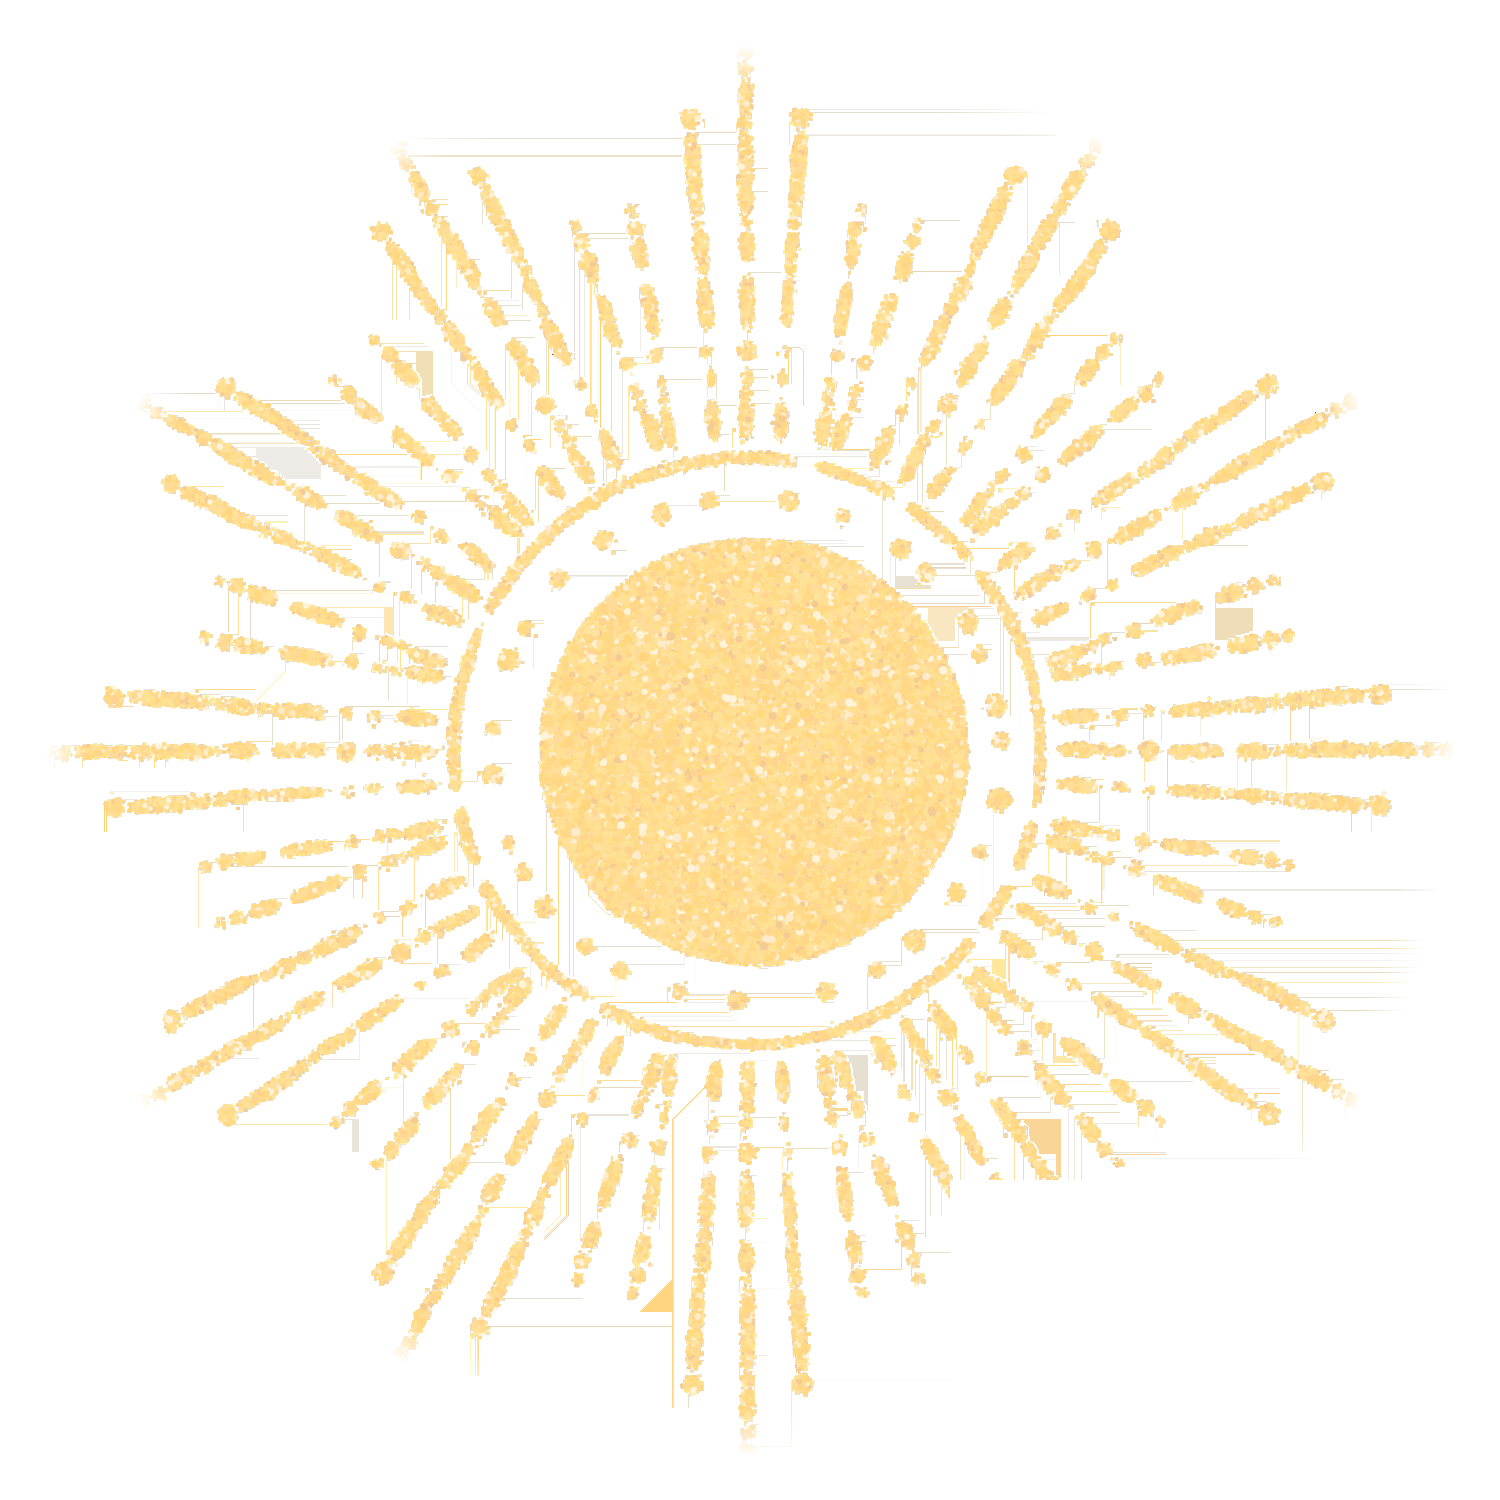
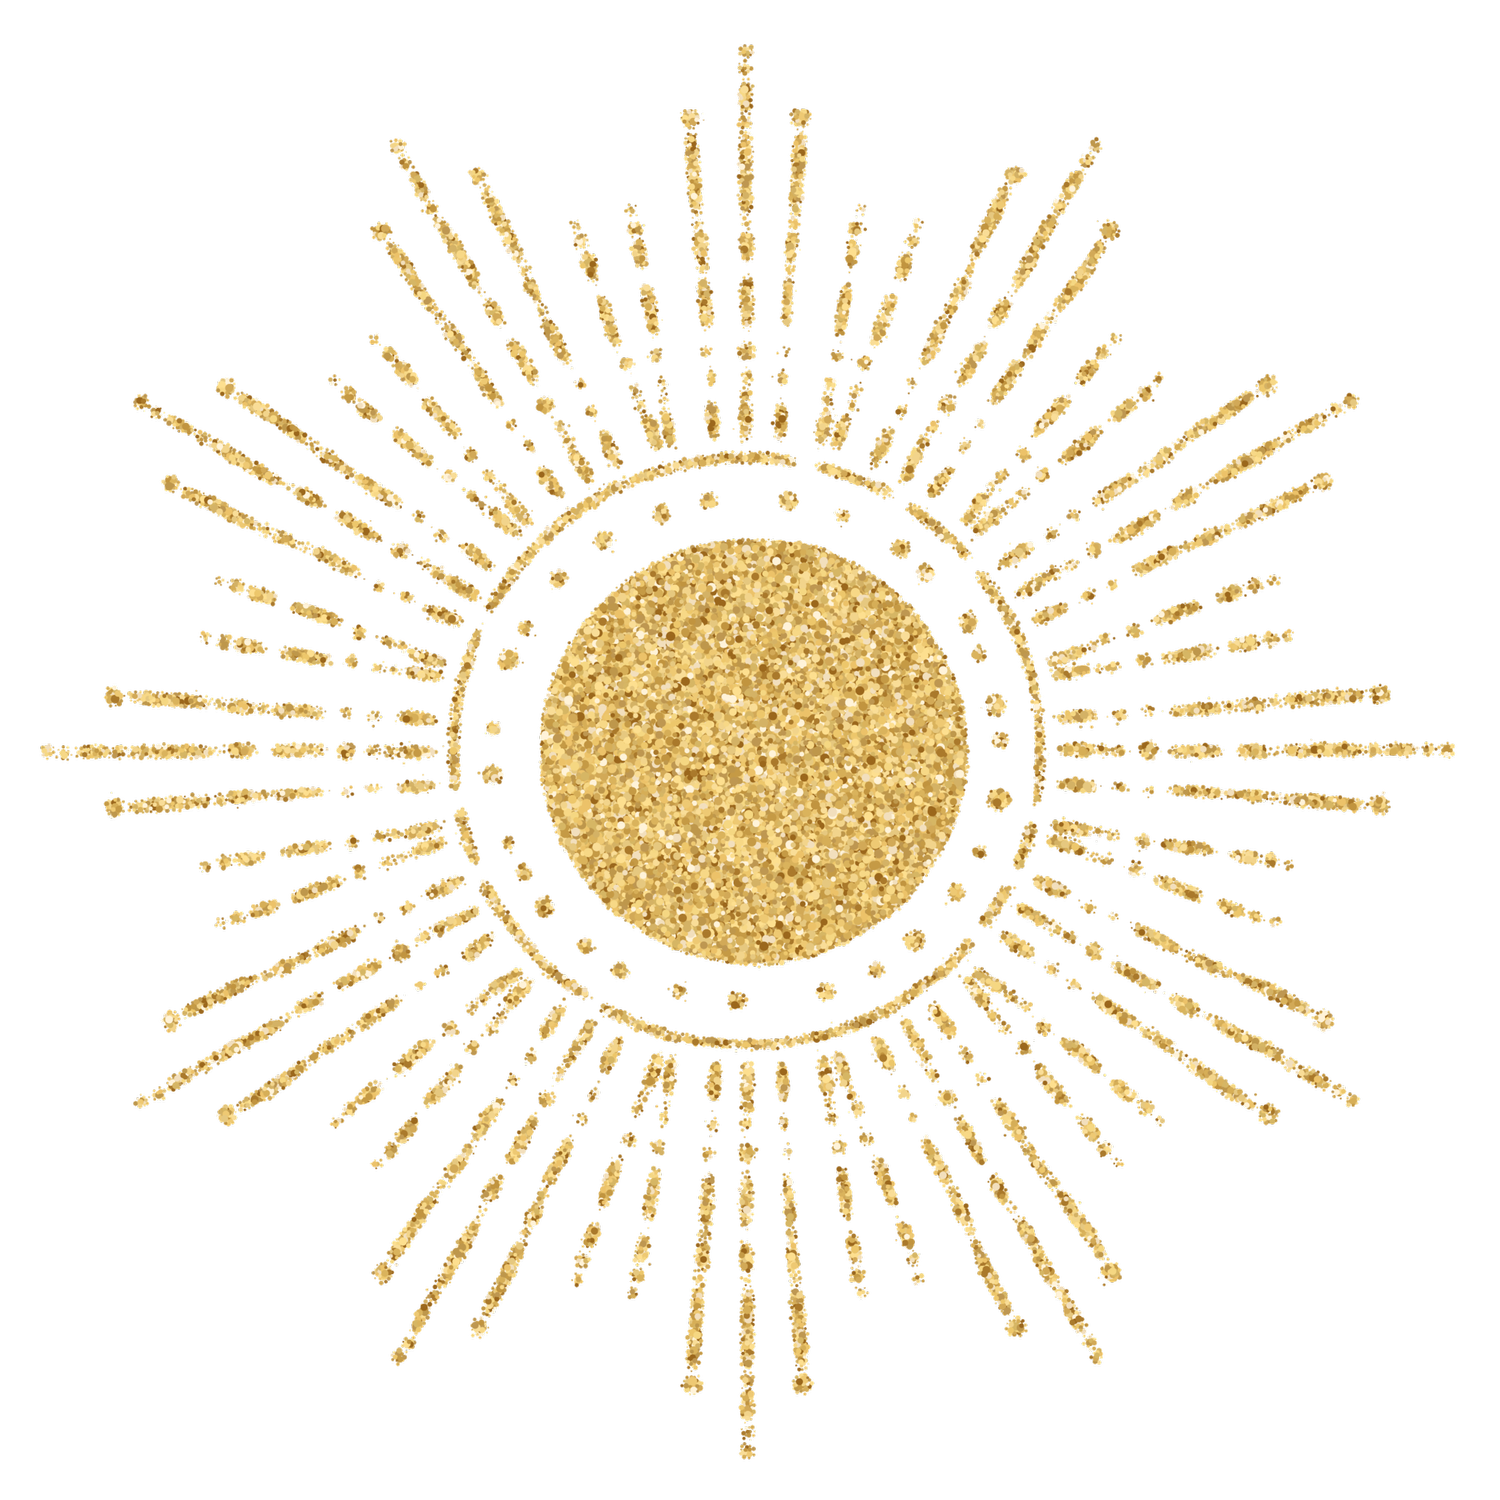
Official elements installed + Pattern chapter redesign (deep gradient design)
- Replaced reconstructed assets with official transparent webp->png versions:
  gold-sun-disc (geo-23), sacred-geo-22/62; new: sacred-geo-76 sun-moons
  divider, gold-contour-1/2 organic rings
- Contours replace geo-45 waves on story + problem; geo-76 closes the story
- Pattern chapter: plum->violet gradient bg, cream/gold serif title, gold
  serif lead, gold spark checks, line-sun + glitter half-suns on edges,
  closing beat in large gold serif
- Embed synced. NOT deployed.

Changed region(s): [[0.0307, 0.0307, 0.9813, 0.9813], [0.8893, 0.2453, 0.92, 0.276], [0.2453, 0.8893, 0.276, 0.92]]

diff --git a/squarespace-embed-icss.html b/squarespace-embed-icss.html
@@ -49,7 +49,7 @@
 
   <!-- CHAPTER II — THE PROBLEM (gold-framed card) -->
   <section class="sx-chapter">
-    <img class="sx-problem__geo sx-problem__geo--tr sx-bloom" data-parallax="0.13" src="https://regina-martinelli-design-system.vercel.app/design-system/assets/sacred-geo-45.png" alt="" aria-hidden="true">
+    <img class="sx-problem__geo sx-problem__geo--tr sx-bloom" data-parallax="0.13" src="https://regina-martinelli-design-system.vercel.app/design-system/assets/gold-contour-1.png" alt="" aria-hidden="true">
     <div class="rm-container rm-reveal">
       <div class="sx-card-gold">
         <div class="sx-prose sx-stagger sx-center">
@@ -104,7 +104,7 @@
       <div class="sx-story">
         <img class="sx-story__orn sx-story__orn--phases sx-bloom" data-parallax="0.1" src="https://regina-martinelli-design-system.vercel.app/design-system/assets/sacred-geo-25.png" alt="" aria-hidden="true">
         <img class="sx-story__orn sx-story__orn--sun sx-bloom" data-parallax="0.16" src="https://regina-martinelli-design-system.vercel.app/design-system/assets/gold-sun-disc.png" alt="" aria-hidden="true">
-        <img class="sx-story__orn sx-story__orn--waves sx-bloom" data-parallax="0.07" src="https://regina-martinelli-design-system.vercel.app/design-system/assets/sacred-geo-45.png" alt="" aria-hidden="true">
+        <img class="sx-story__orn sx-story__orn--waves sx-bloom" data-parallax="0.07" src="https://regina-martinelli-design-system.vercel.app/design-system/assets/gold-contour-2.png" alt="" aria-hidden="true">
         <img class="sx-story__orn sx-story__orn--wheel sx-bloom" data-parallax="0.14" src="https://regina-martinelli-design-system.vercel.app/design-system/assets/sacred-geo-22.png" alt="" aria-hidden="true">
         <h2 class="sx-story__title">My Story</h2>
         <p class="sx-slead" style="margin-top:0">For a long time, I was marketing the way I thought I was supposed to.</p>
@@ -164,20 +164,21 @@
         </div>
         <p class="sx-beat sx-beat--bold" style="margin-top:64px"><span class="sx-splash">That is the shift this work creates.</span></p>
       </div>
+      <div style="height:96px"></div>
+      <div class="sx-orn sx-bloom"><img src="https://regina-martinelli-design-system.vercel.app/design-system/assets/sacred-geo-76.png" alt="" aria-hidden="true"></div>
     </div>
   </section>
 
-  <!-- CHAPTER V — THE PATTERN -->
+  <!-- CHAPTER V — THE PATTERN (deep gradient) -->
   <section class="sx-chapter sx-dark">
-    <img class="sx-dark__geo sx-bloom" data-parallax="0.1" src="https://regina-martinelli-design-system.vercel.app/design-system/assets/sacred-geo-23.png" alt="" aria-hidden="true">
+    <img class="sx-dark__orn sx-dark__orn--lines sx-bloom" data-parallax="0.1" src="https://regina-martinelli-design-system.vercel.app/design-system/assets/sacred-geo-15.png" alt="" aria-hidden="true">
+    <img class="sx-dark__orn sx-dark__orn--sunr sx-bloom" data-parallax="0.15" src="https://regina-martinelli-design-system.vercel.app/design-system/assets/gold-sun-disc.png" alt="" aria-hidden="true">
+    <img class="sx-dark__orn sx-dark__orn--sunbl sx-bloom" data-parallax="0.08" src="https://regina-martinelli-design-system.vercel.app/design-system/assets/gold-sun-disc.png" alt="" aria-hidden="true">
     <div class="rm-container rm-reveal">
       <div class="sx-ch-head">
-        <span class="sx-ch-num" aria-hidden="true">V</span>
         <h2 class="sx-ch-title">What I&rsquo;ve seen <em>again and again</em>&hellip;</h2>
       </div>
-      <div class="sx-prose sx-center">
-        <p>When entrepreneurs build their business around their natural gifts, strengths, and the kind of work that actually lights them up, a predictable pattern comes into focus:</p>
-      </div>
+      <p class="sx-dlead">When entrepreneurs build their business around their natural gifts, strengths, and the kind of work that actually lights them up, a predictable pattern comes into focus:</p>
       <div style="height:44px"></div>
       <ul class="sx-checks">
         <li>They stop trying to force strategies that don&rsquo;t fit.</li>
@@ -197,8 +198,8 @@
         <p>Because when you are working in alignment, you are no longer settling, stifling or shrinking yourself behind the scenes.</p>
         <p>You stop frantically racing across the internet hoping for a good fit. You gain clarity in your offer, certainty in how you invite them in, and a deep anchor in your own value.</p>
       </div>
-      <div style="height:48px"></div>
-      <p class="sx-beat">You become more magnetic because you are no longer trying to be everything. You are simply being more fully yourself in the work you love to do. And that attracts your favorite people to work with.</p>
+      <div style="height:64px"></div>
+      <p class="sx-beat sx-beat--goldserif">You become more magnetic because you are no longer trying to be everything. You are simply being more fully yourself in the work you love to do. And that attracts your favorite people to work with.</p>
     </div>
   </section>
 
@@ -576,7 +577,7 @@
 #rm-session .sx-case .sx-mini li:last-child::after { content: none; }
 
 /* CHAPTER V — dark movement */
-#rm-session .sx-dark { background: var(--rmx-dark); color: #fff; position: relative; }
+#rm-session .sx-dark { background: linear-gradient(180deg, #3B1F2E 0%, #422247 42%, #5C3A7E 100%); color: #fff; position: relative; }
 #rm-session .sx-dark::before { content: ""; position: absolute; inset: 0; background: radial-gradient(ellipse 70% 55% at 50% 38%, rgba(168, 109, 223, 0.4), transparent 65%); pointer-events: none; }
 @media (prefers-reduced-motion: no-preference) { #rm-session .sx-dark::before { animation: rmx-breathe 9s ease-in-out infinite alternate; } }
 @keyframes rmx-breathe { from { opacity: 0.55; } to { opacity: 1; } }
@@ -683,6 +684,23 @@
   #rm-session .sx-meet { flex-direction: column; text-align: center; }
   #rm-session .sx-story__orn { display: none; }
   #rm-session .sx-band { width: calc(100% + 48px); margin-left: -24px; }
+}
+
+#rm-session .sx-dlead { font-family: var(--rmx-serif); font-weight: 400; font-size: clamp(1.3rem, 2.3vw, 1.8rem); line-height: 1.45; color: #DBB668; text-align: center; max-width: 50rem; margin: 0 auto; }
+#rm-session .sx-dark .sx-ch-title { color: #F4E8D2; }
+#rm-session .sx-dark .sx-ch-title em { color: #DBB668; }
+#rm-session .sx-dark .sx-ch-head::before { background: linear-gradient(180deg, transparent, #DBB668); }
+#rm-session .sx-dark .sx-checks li::before { content: "\2726"; background: none; color: #EFC34F; font-size: 19px; width: auto; height: auto; display: block; top: 0; }
+#rm-session .sx-beat--goldserif { font-weight: 400; font-size: clamp(2rem, 3.8vw, 3.1rem); line-height: 1.3; max-width: 50rem; }
+#rm-session .sx-dark .sx-beat--goldserif { color: #D9B25C; }
+#rm-session .sx-dark__orn { position: absolute; pointer-events: none; }
+#rm-session .sx-dark__orn--lines { left: -40px; top: 60px; height: 320px; opacity: 0.75; }
+#rm-session .sx-dark__orn--sunr { right: -140px; top: 34%; height: 360px; }
+#rm-session .sx-dark__orn--sunbl { left: -130px; bottom: -90px; height: 330px; }
+@media (max-width: 880px) {
+  #rm-session .sx-dark__orn--lines { height: 200px; }
+  #rm-session .sx-dark__orn--sunr { height: 220px; right: -100px; }
+  #rm-session .sx-dark__orn--sunbl { height: 200px; left: -90px; }
 }
 </style>
 

diff --git a/ideal-client-strategy-session.html b/ideal-client-strategy-session.html
@@ -122,7 +122,7 @@
 
   <!-- ════════ CHAPTER II — THE PROBLEM (gold-framed card, Figma 55:85) ════════ -->
   <section class="sx-chapter">
-    <img class="sx-problem__geo sx-problem__geo--tr sx-bloom" data-parallax="0.13" src="/design-system/assets/sacred-geo-45.png" alt="" aria-hidden="true">
+    <img class="sx-problem__geo sx-problem__geo--tr sx-bloom" data-parallax="0.13" src="/design-system/assets/gold-contour-1.png" alt="" aria-hidden="true">
     <div class="rm-container rm-reveal">
       <div class="sx-card-gold">
         <div class="sx-prose sx-stagger sx-center">
@@ -177,7 +177,7 @@
       <div class="sx-story">
         <img class="sx-story__orn sx-story__orn--phases sx-bloom" data-parallax="0.1" src="/design-system/assets/sacred-geo-25.png" alt="" aria-hidden="true">
         <img class="sx-story__orn sx-story__orn--sun sx-bloom" data-parallax="0.16" src="/design-system/assets/gold-sun-disc.png" alt="" aria-hidden="true">
-        <img class="sx-story__orn sx-story__orn--waves sx-bloom" data-parallax="0.07" src="/design-system/assets/sacred-geo-45.png" alt="" aria-hidden="true">
+        <img class="sx-story__orn sx-story__orn--waves sx-bloom" data-parallax="0.07" src="/design-system/assets/gold-contour-2.png" alt="" aria-hidden="true">
         <img class="sx-story__orn sx-story__orn--wheel sx-bloom" data-parallax="0.14" src="/design-system/assets/sacred-geo-22.png" alt="" aria-hidden="true">
         <h2 class="sx-story__title">My Story</h2>
         <p class="sx-slead" style="margin-top:0">For a long time, I was marketing the way I thought I was supposed to.</p>
@@ -237,20 +237,21 @@
         </div>
         <p class="sx-beat sx-beat--bold" style="margin-top:64px"><span class="sx-splash">That is the shift this work creates.</span></p>
       </div>
+      <div style="height:96px"></div>
+      <div class="sx-orn sx-bloom"><img src="/design-system/assets/sacred-geo-76.png" alt="" aria-hidden="true"></div>
     </div>
   </section>
 
-  <!-- ════════ CHAPTER V — THE PATTERN ════════ -->
+  <!-- ════════ CHAPTER V — THE PATTERN (deep gradient, per design) ════════ -->
   <section class="sx-chapter sx-dark">
-    <img class="sx-dark__geo sx-bloom" data-parallax="0.1" src="/design-system/assets/sacred-geo-23.png" alt="" aria-hidden="true">
+    <img class="sx-dark__orn sx-dark__orn--lines sx-bloom" data-parallax="0.1" src="/design-system/assets/sacred-geo-15.png" alt="" aria-hidden="true">
+    <img class="sx-dark__orn sx-dark__orn--sunr sx-bloom" data-parallax="0.15" src="/design-system/assets/gold-sun-disc.png" alt="" aria-hidden="true">
+    <img class="sx-dark__orn sx-dark__orn--sunbl sx-bloom" data-parallax="0.08" src="/design-system/assets/gold-sun-disc.png" alt="" aria-hidden="true">
     <div class="rm-container rm-reveal">
       <div class="sx-ch-head">
-        <span class="sx-ch-num" aria-hidden="true">V</span>
         <h2 class="sx-ch-title">What I&rsquo;ve seen <em>again and again</em>&hellip;</h2>
       </div>
-      <div class="sx-prose sx-center">
-        <p>When entrepreneurs build their business around their natural gifts, strengths, and the kind of work that actually lights them up, a predictable pattern comes into focus:</p>
-      </div>
+      <p class="sx-dlead">When entrepreneurs build their business around their natural gifts, strengths, and the kind of work that actually lights them up, a predictable pattern comes into focus:</p>
       <div style="height:44px"></div>
       <ul class="sx-checks">
         <li>They stop trying to force strategies that don&rsquo;t fit.</li>
@@ -265,13 +266,13 @@
       <div style="height:48px"></div>
       <div class="sx-prose">
         <p>Not because they were doing business wrong. But because they were trying to build it without a clear understanding of their own natural &amp; preferred way of working.</p>
-        <p class="sx-punch">That understanding changes everything.</p>
+        <p class="sx-punch" style="color:#fff">That understanding changes everything.</p>
         <p>Believe it or not, this all compounds. It exponentially expands.</p>
         <p>Because when you are working in alignment, you are no longer settling, stifling or shrinking yourself behind the scenes.</p>
         <p>You stop frantically racing across the internet hoping for a good fit. You gain clarity in your offer, certainty in how you invite them in, and a deep anchor in your own value.</p>
       </div>
-      <div style="height:48px"></div>
-      <p class="sx-beat">You become more magnetic because you are no longer trying to be everything. You are simply being more fully yourself in the work you love to do. And that attracts your favorite people to work with.</p>
+      <div style="height:64px"></div>
+      <p class="sx-beat sx-beat--goldserif">You become more magnetic because you are no longer trying to be everything. You are simply being more fully yourself in the work you love to do. And that attracts your favorite people to work with.</p>
     </div>
   </section>
 

diff --git a/css/session.css b/css/session.css
@@ -909,7 +909,7 @@
    Chapter V — The Pattern (the single dark movement)
    ========================================================================== */
 .sx-dark {
-  background: var(--rm-dark-accent);
+  background: linear-gradient(180deg, #3B1F2E 0%, #422247 42%, #5C3A7E 100%);
   color: #fff;
   position: relative;
 }
@@ -1256,3 +1256,44 @@
   .sx-case { padding: 44px 26px 38px; }
   .sx-price-card { padding: 48px 28px 44px; }
 }
+
+/* Pattern chapter redesign (deep gradient design) */
+.sx-dlead {
+  font-family: var(--font-serif);
+  font-weight: 400;
+  font-size: clamp(1.3rem, 2.3vw, 1.8rem);
+  line-height: 1.45;
+  color: #DBB668;
+  text-align: center;
+  max-width: 50rem;
+  margin: 0 auto;
+}
+.sx-dark .sx-ch-title { color: #F4E8D2; }
+.sx-dark .sx-ch-title em { color: #DBB668; }
+.sx-dark .sx-ch-head::before { background: linear-gradient(180deg, transparent, #DBB668); }
+.sx-dark .sx-checks li::before {
+  content: "✦";
+  background: none;
+  color: #EFC34F;
+  font-size: 19px;
+  width: auto; height: auto;
+  display: block;
+  top: 0;
+}
+.sx-beat--goldserif {
+  font-weight: 400;
+  font-size: clamp(2rem, 3.8vw, 3.1rem);
+  line-height: 1.3;
+  color: #D9B25C;
+  max-width: 50rem;
+}
+.sx-dark__orn { position: absolute; pointer-events: none; }
+.sx-dark__orn--lines { left: -40px; top: 60px; height: 320px; opacity: 0.75; }
+.sx-dark__orn--sunr { right: -140px; top: 34%; height: 360px; }
+.sx-dark__orn--sunbl { left: -130px; bottom: -90px; height: 330px; }
+@media (max-width: 880px) {
+  .sx-dark__orn--lines { height: 200px; }
+  .sx-dark__orn--sunr { height: 220px; right: -100px; }
+  .sx-dark__orn--sunbl { height: 200px; left: -90px; }
+}
+.sx-dark .sx-beat--goldserif { color: #D9B25C; }
